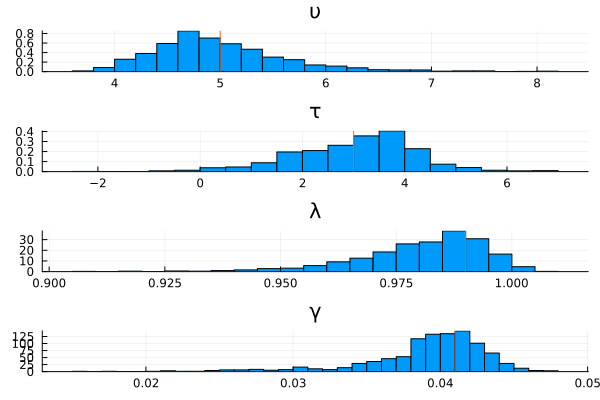
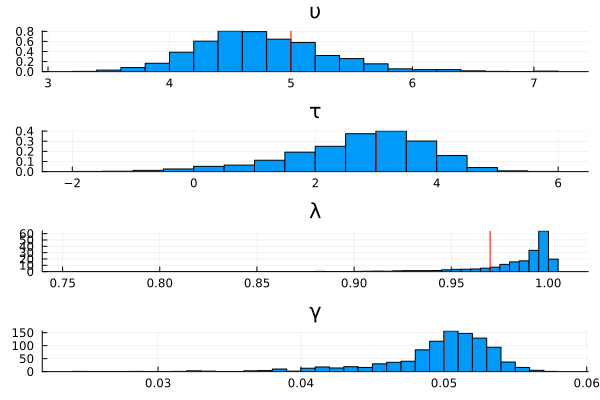
update the docs

diff --git a/docs/src/amortized_bayesian_inference.md b/docs/src/amortized_bayesian_inference.md
@@ -1,3 +1,6 @@
+!!! note "Warning"
+    Docs are a work in progress.
+
 # Introduction 
 
 This page demonstrates how to perform amortized Bayesian inference using neural networks. Click below to reveal a full copy-and-pastable version of the code.
@@ -22,8 +25,8 @@ w = 128         # width of each hidden layer
 
 function sample(K)
     υτ = rand(MvNormal([5, 4], [4 2; 2 4]), K)
-    λ = rand(Beta(98, 2), K)
-    γ = rand(truncated(Normal(.04, .01),0, Inf), K)
+    λ = rand(Beta(25, .5), K)
+    γ = rand(truncated(Normal(.04, .015),.01, Inf), K)
     θ = vcat(υτ, λ' , γ')
     return θ
 end
@@ -47,30 +50,32 @@ trained_estimator = train(
     sample, 
     simulate; 
     m, 
-    epochs = 20,
-    K = 10_000
+    epochs = 30,
+    K = 15_000
 )
 
 # Assess the estimator
 θ_test = sample(1000)
 Z_test = simulate(θ_test, m)
-assessment = assess(trained_estimator, θ_test, Z_test)
+assessment = assess(trained_estimator, θ_test, Z_test; parameter_names = ["υ", "τ", "λ", "γ"])
 bias(assessment)  
 rmse(assessment) 
 AlgebraOfGraphics.plot(assessment)
 
+
 # Apply the estimator to observed data
-θ = [5,3,.99,.041]       # true parameters
-Z = simulate(θ, m)       # "observed" data
+title = ["υ" "τ" "λ" "γ"]
+θ = [5,3,.97,.05]       # true parameters
+Z = simulate(θ, m)      # "observed" data
 post_samples = sampleposterior(trained_estimator, Z)
-Plots.histogram(post_samples', layout = (4,1), norm = true, leg = false, title = ["υ" "τ" "λ" "γ"])
+Plots.histogram(post_samples'; layout = (4,1), norm = true, leg = false, title)
 vline!([θ'], color = :red)
 
 # Apply the estimator to observed data
-θ = [2,3,.96,.031]       # true parameters
-Z = simulate(θ, m)       # "observed" data
+θ = [3,4,.98,.03]       # true parameters
+Z = simulate(θ, m)      # "observed" data
 post_samples = sampleposterior(trained_estimator, Z)
-Plots.histogram(post_samples', layout = (4,1), norm = true, leg = false, title = ["υ" "τ" "λ" "γ"])
+Plots.histogram(post_samples'; layout = (4,1), norm = true, leg = false, title)
 vline!([θ'], color = :red)
 ```
 ```@raw html
@@ -98,8 +103,8 @@ w = 128         # width of each hidden layer
 ```julia
 function sample(K)
     υτ = rand(MvNormal([5, 4], [4 2; 2 4]), K)
-    λ = rand(Beta(98, 2), K)
-    γ = rand(truncated(Normal(.04, .01),0, Inf), K)
+    λ = rand(Beta(25, .5), K)
+    γ = rand(truncated(Normal(.04, .015),.01, Inf), K)
     θ = vcat(υτ, λ' , γ')
     return θ
 end
@@ -129,36 +134,40 @@ trained_estimator = train(
     sample, 
     simulate; 
     m, 
-    epochs = 20,
-    K = 10_000
+    epochs = 30,
+    K = 15_000
 )
 ```
 # Assess the estimator
 ```julia
 θ_test = sample(1000)
 Z_test = simulate(θ_test, m)
-assessment = assess(trained_estimator, θ_test, Z_test)
+assessment = assess(trained_estimator, θ_test, Z_test; parameter_names = ["υ", "τ", "λ", "γ"])
 bias(assessment)  
 rmse(assessment) 
 AlgebraOfGraphics.plot(assessment)
 ```
+![](assets/recovery.png)
+
 # Estimate the Posterior Distributions
 
 The examples below estimate the posterior distributions using data generated from two different sets of parameters. The vertical red lines in each sub-plot indicate the ground truth parameter values. 
 
 ```julia
-θ = [5,3,.99,.041]       # true parameters
-Z = simulate(θ, m)       # "observed" data
+title = ["υ" "τ" "λ" "γ"]
+θ = [5,3,.97,.05]       # true parameters
+Z = simulate(θ, m)      # "observed" data
 post_samples = sampleposterior(trained_estimator, Z)
-Plots.histogram(post_samples', layout = (4,1), norm = true, leg = false, title = ["υ" "τ" "λ" "γ"])
+Plots.histogram(post_samples'; layout = (4,1), norm = true, leg = false, title)
 vline!([θ'], color = :red)
 ```
 ![](assets/posterior1.png)
 ```julia
-θ = [2,3,.96,.031]       # true parameters
-Z = simulate(θ, m)       # "observed" data
+θ = [3,4,.98,.03]       # true parameters
+Z = simulate(θ, m)      # "observed" data
 post_samples = sampleposterior(trained_estimator, Z)
-Plots.histogram(post_samples', layout = (4,1), norm = true, leg = false, title = ["υ" "τ" "λ" "γ"])
+Plots.histogram(post_samples'; layout = (4,1), norm = true, leg = false, title)
 vline!([θ'], color = :red)
+
 ```
 ![](assets/posterior2.png)
